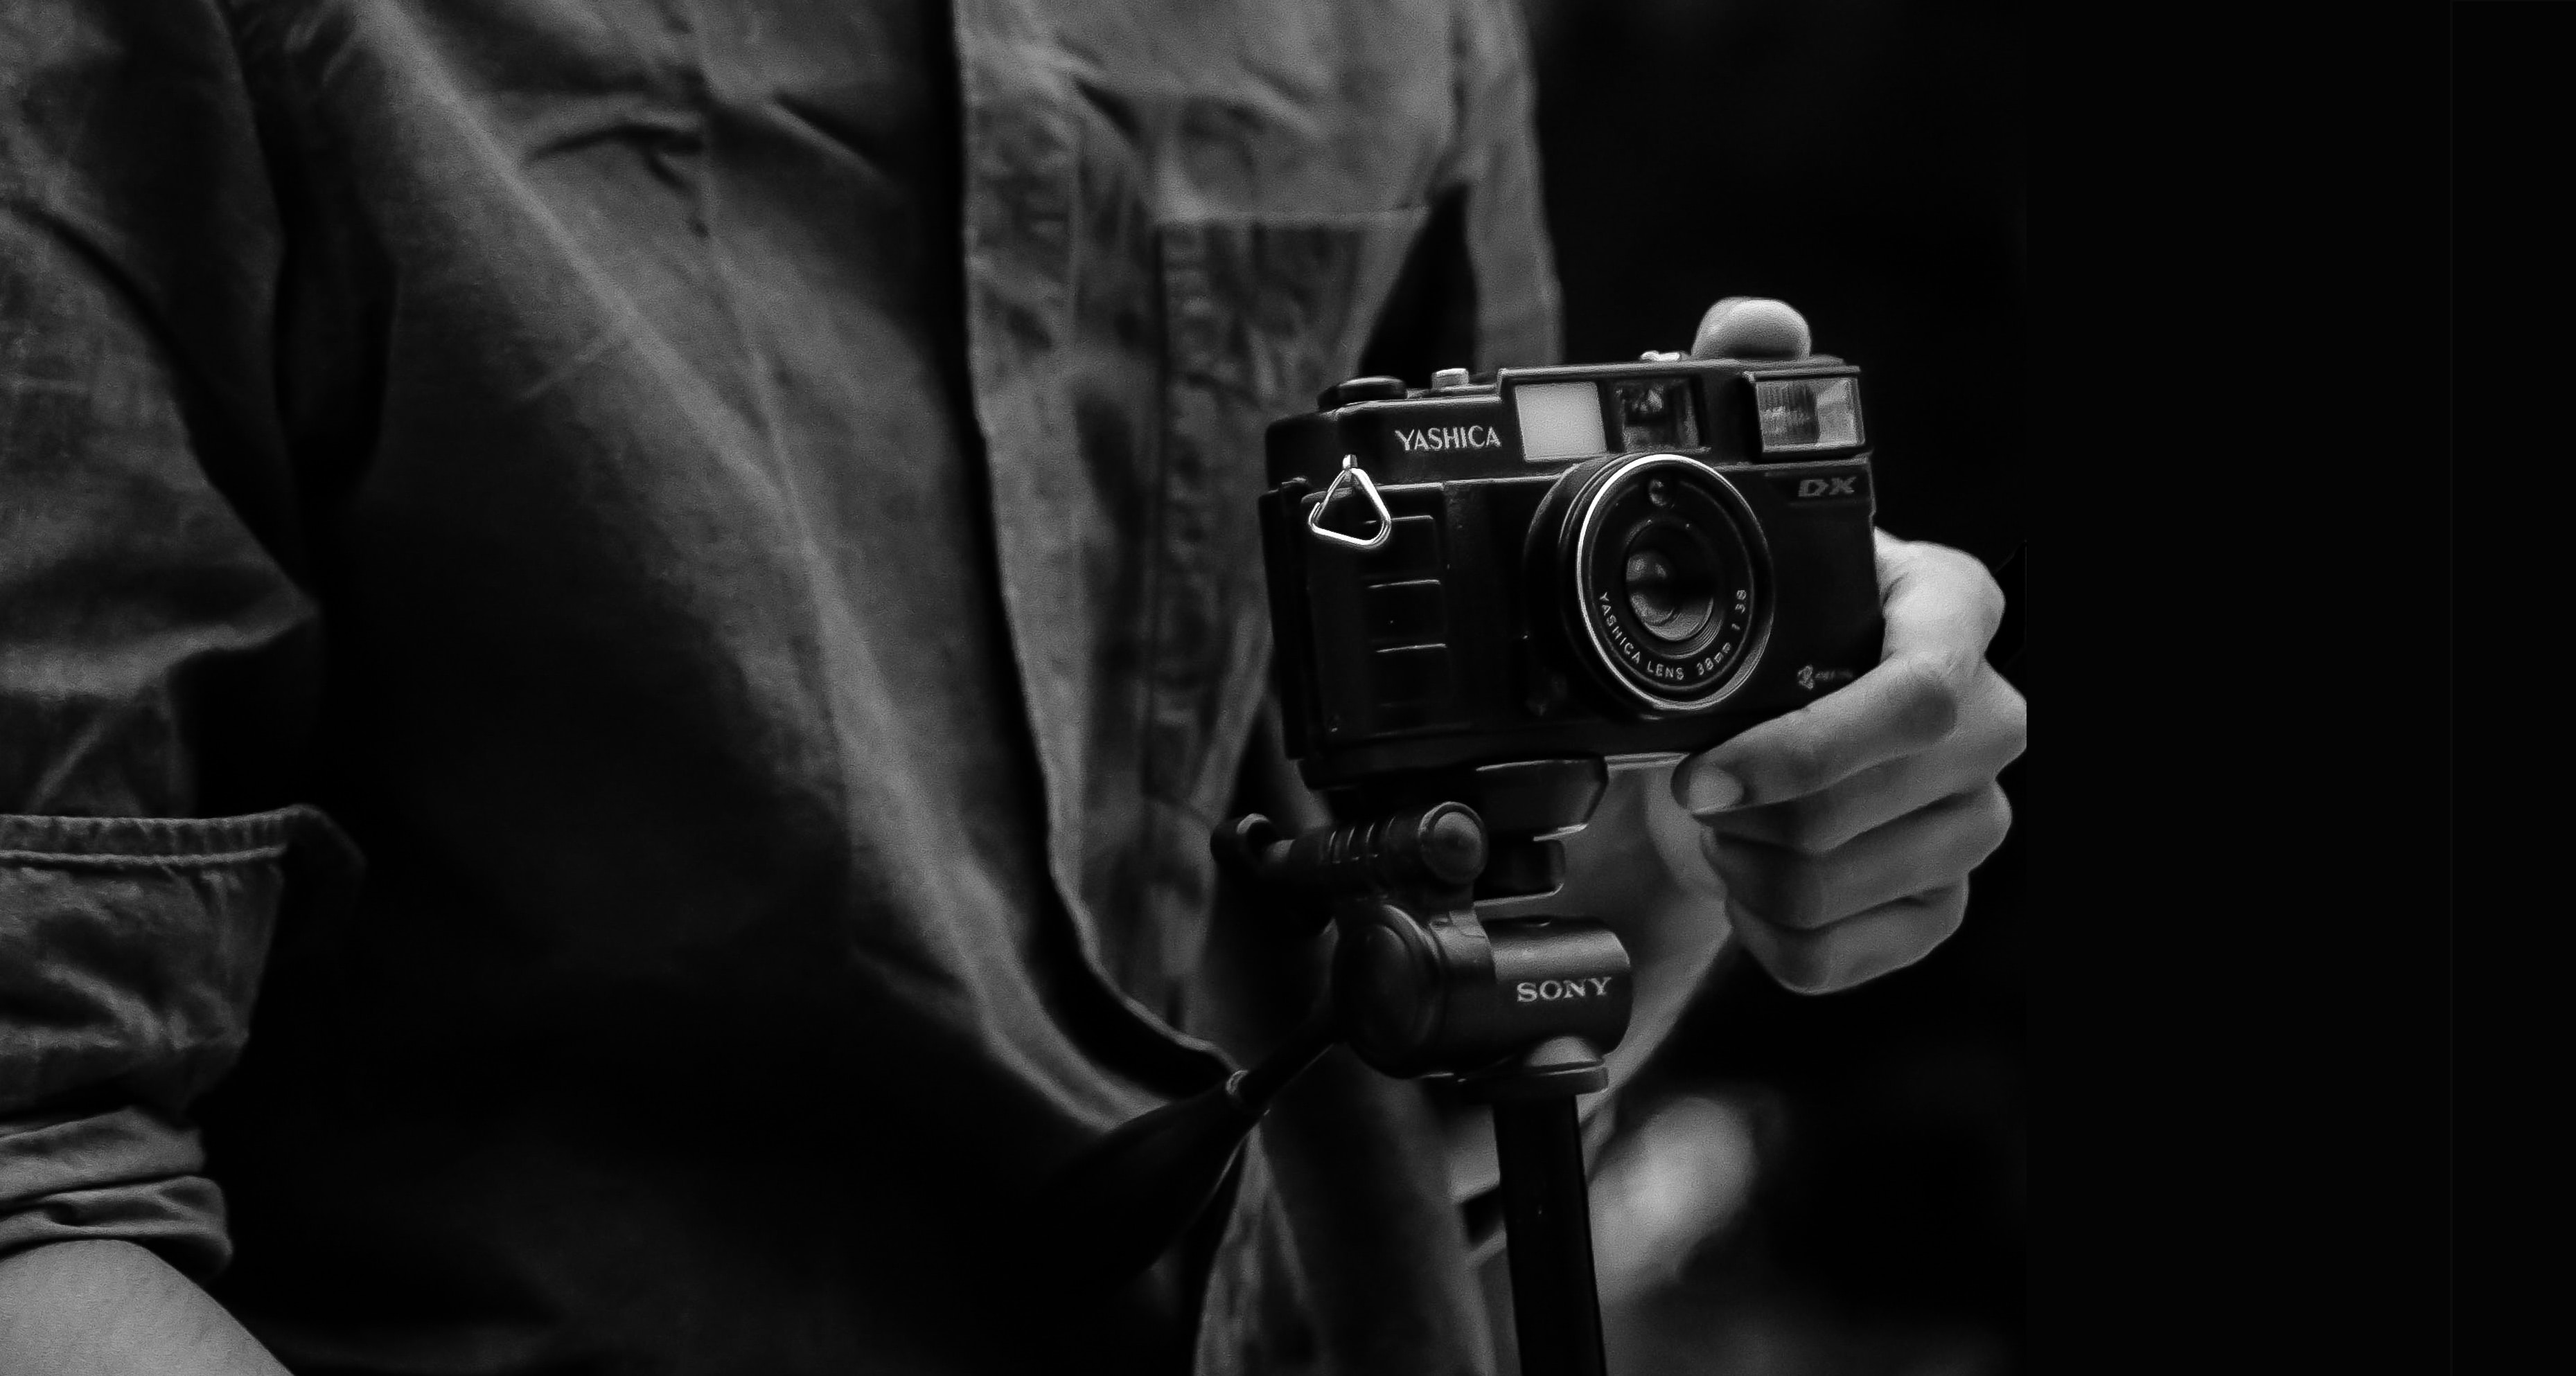
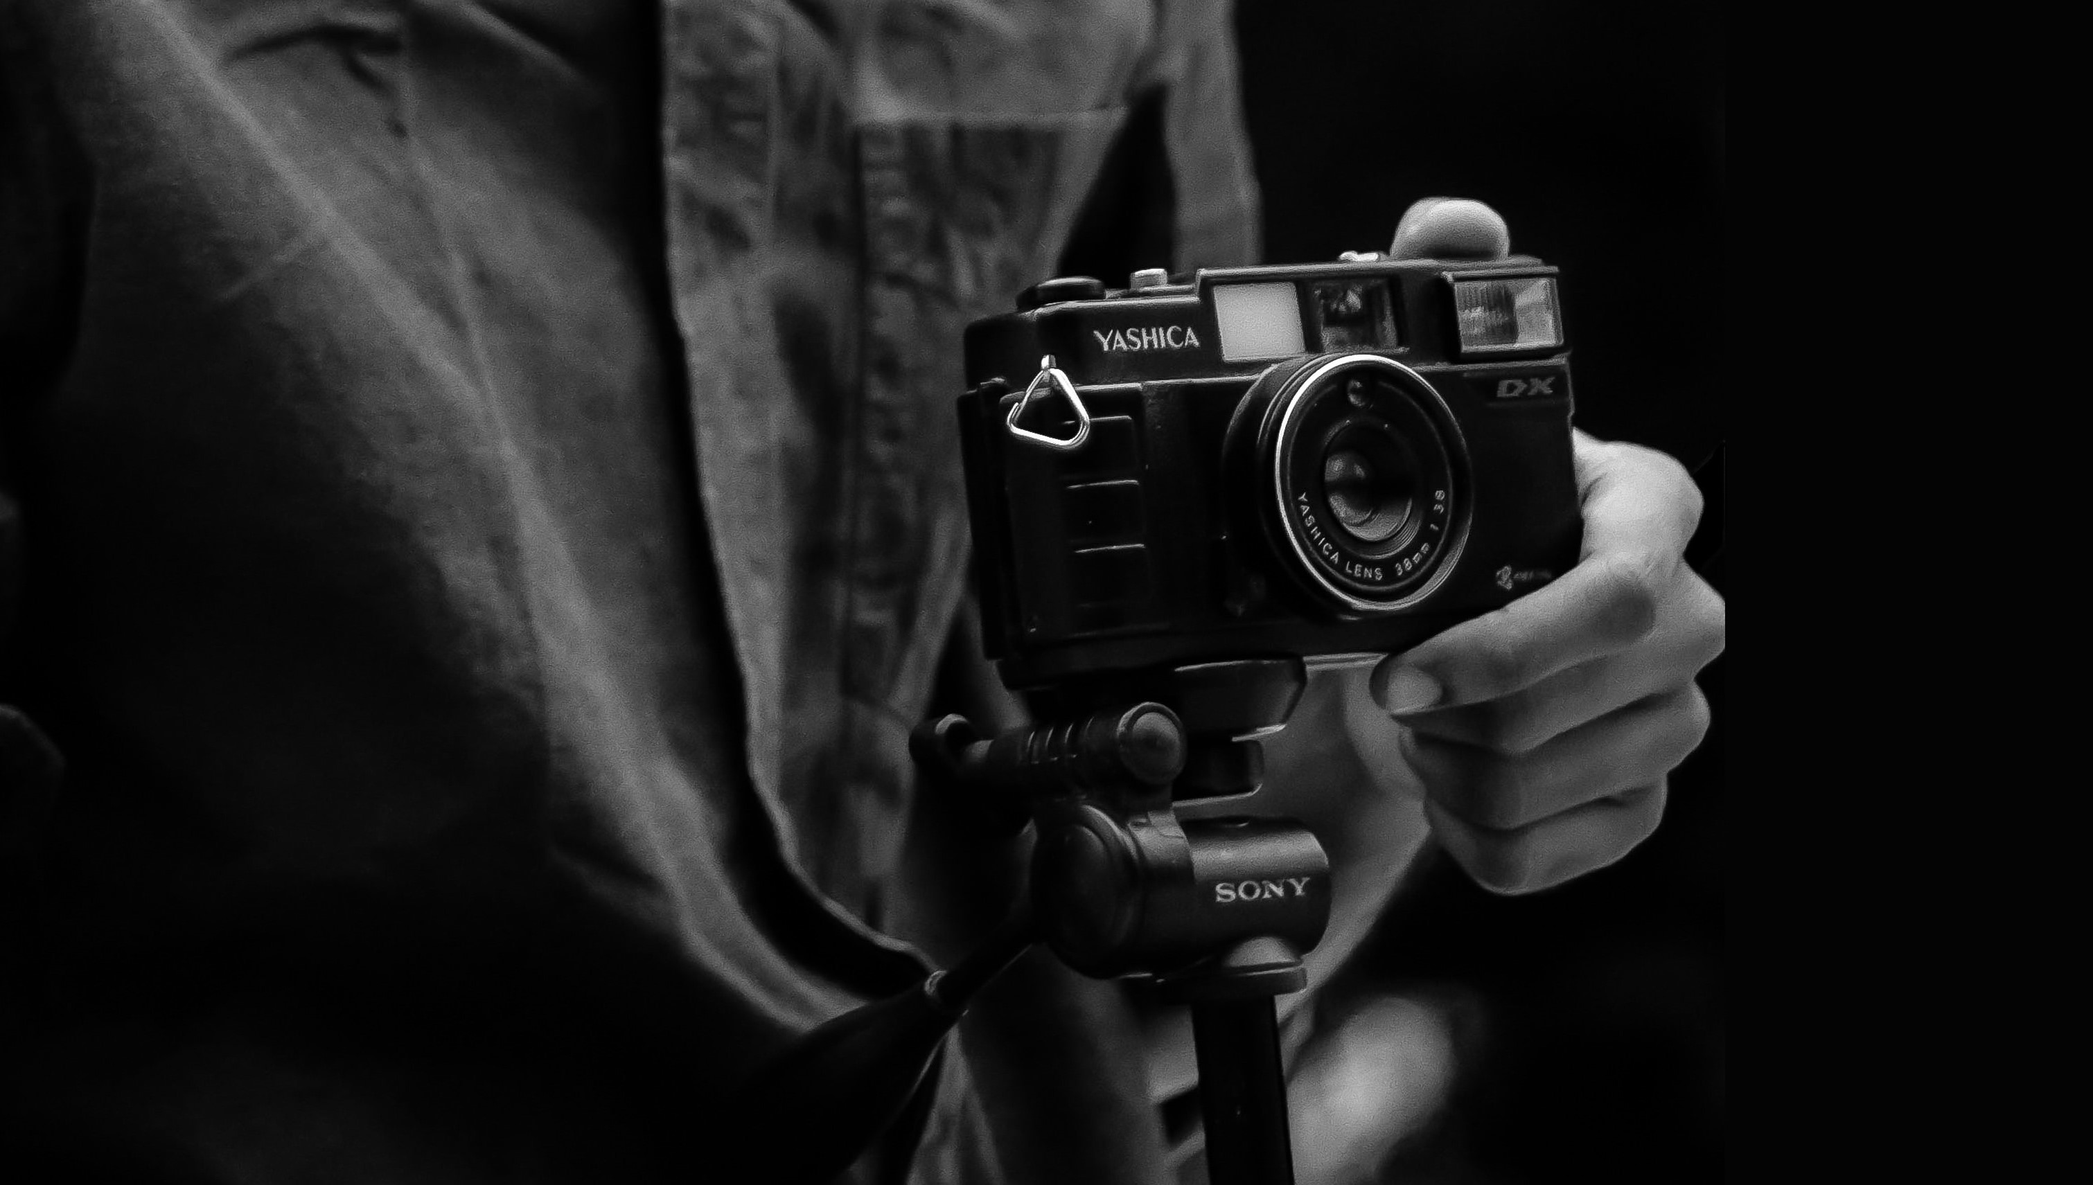
Fix: Made the cover photo responsive

diff --git a/index.html b/index.html
@@ -40,7 +40,11 @@
         </header>
     </header>
     <div class="cover">
-        <img src="./photos/camera3.2.jpg" class="welcome-photo"/>
+        <picture>
+            <source media="(min-width:850px)" srcset="./photos/camera3.3.jpg">
+            <source media="(min-width:520px)" srcset="./photos/camera3.jpg">
+            <img src="./photos/camera3.2.jpg" class="welcome-photo"/>
+        </picture>
             <div class="welcome-text">
                 <p class="p1">
                     TIMELESS BEAUTY
@@ -76,6 +80,14 @@
                 and we take the time to listen, 
                 understand, and bring their visions to life.
             </p>
+        </div>
+    </div>
+    <div>
+        <div>
+            <h1 class="gallery-title">
+                    Gallery
+            </h1>
+
         </div>
     </div>
     

diff --git a/home.css b/home.css
@@ -132,6 +132,15 @@
   color: white;
 }
 
-@media screen and (min-width:720px){
+.gallery-title {
+  font-family: 'Manrope', sans-serif;
+  font-weight: 800;
+  text-align: center;
+  font-size: large;
+  background-color: #7a2012;
+  color: #f7ebd4;
+}
 
+@media screen and (min-width:720px){
+  
 }
